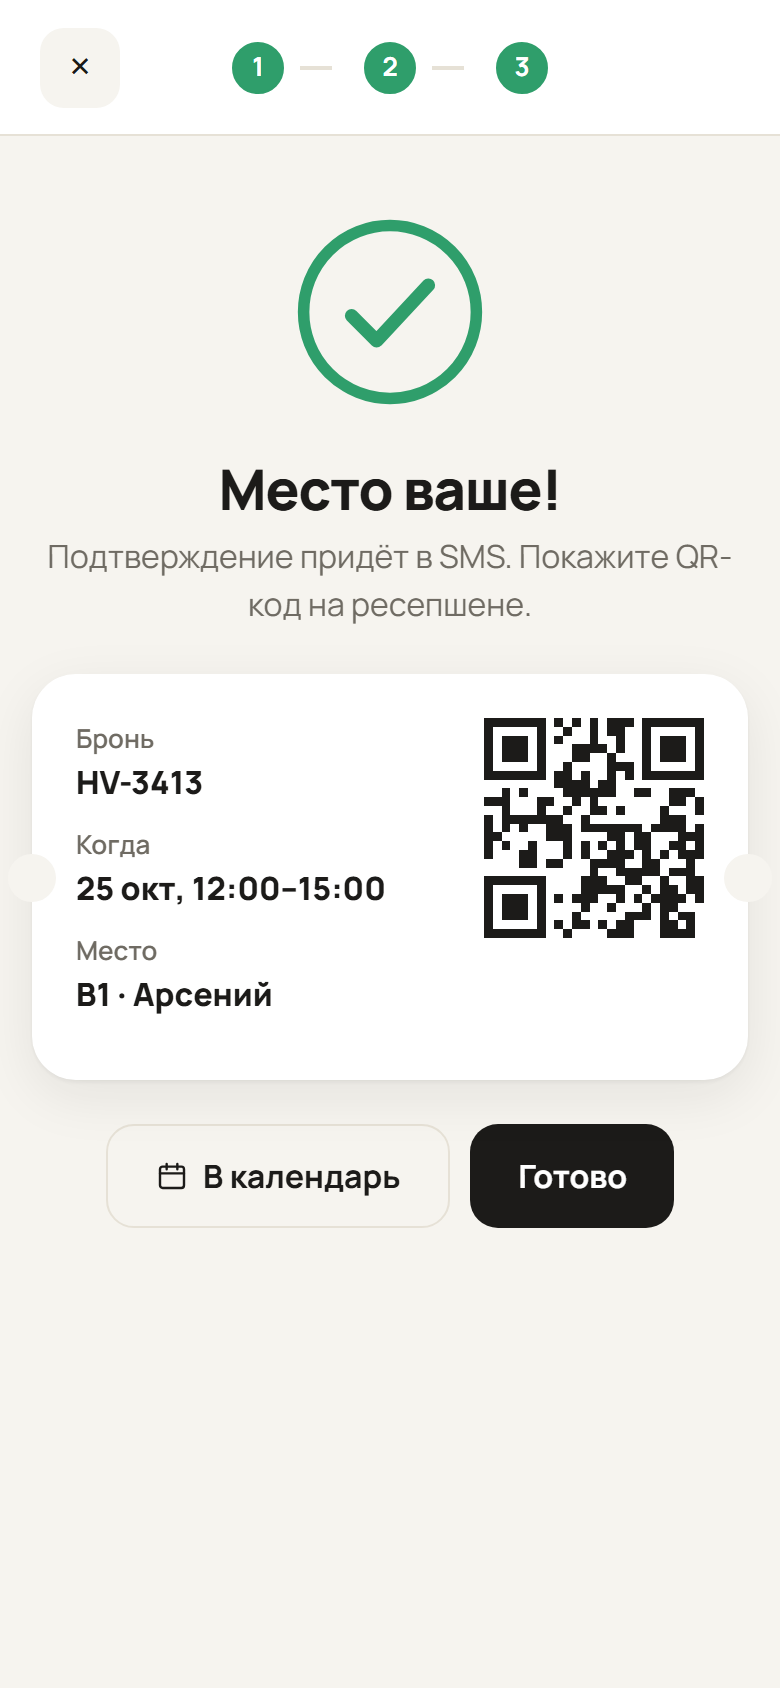
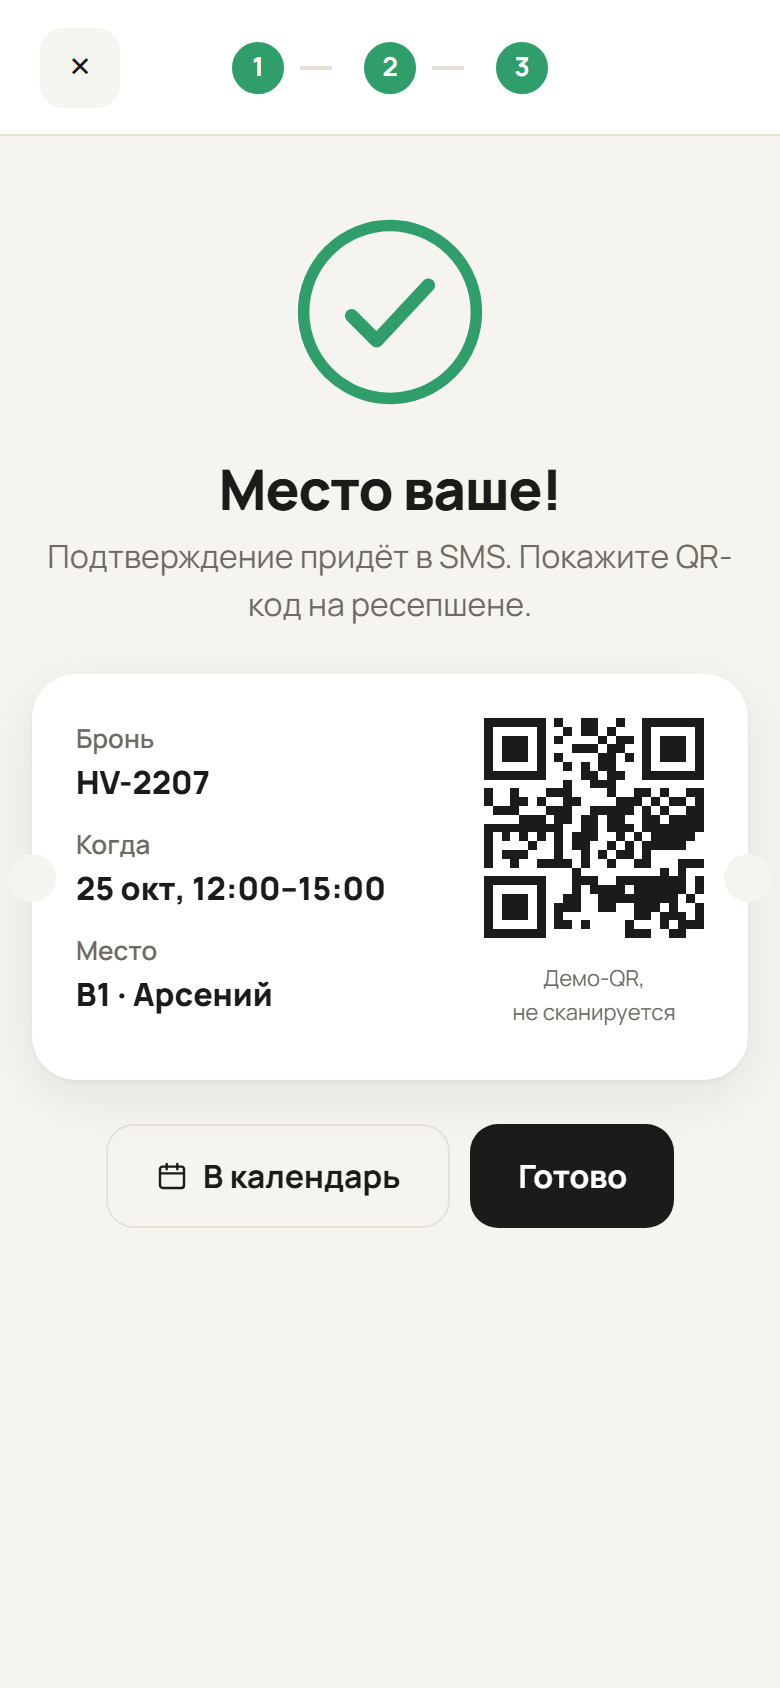
Honest demo data, real .ics download, keyboard-accessible seat map, dialog focus management

Changed region(s): [[0.6154, 0.4005, 0.9231, 0.6161], [0.1846, 0.4313, 0.2769, 0.4929]]

diff --git a/app.html b/app.html
@@ -131,7 +131,9 @@ footer{padding:40px 0 60px;color:var(--mute);font-size:14px}
 .mapbox svg{width:100%;height:auto;display:block}
 .seat{cursor:pointer;transition:transform .25s var(--spring)}
 .seat rect{transition:fill .2s,stroke .2s}
-.seat:hover{transform:scale(1.08)}
+.seat:hover,.seat:focus-visible{transform:scale(1.08)}
+.seat:focus-visible{outline:none}
+.seat:focus-visible rect{stroke:#1c1b19;stroke-width:3}
 .seat.taken{cursor:not-allowed}
 .seat.taken:hover{transform:none}
 .seat.dim{opacity:.25}
@@ -198,7 +200,7 @@ footer{padding:40px 0 60px;color:var(--mute);font-size:14px}
 <main class="wrap">
   <section class="hero">
     <div>
-      <span class="eyebrow"><i></i><span id="freeNow">Сейчас свободно 14 мест</span></span>
+      <span class="eyebrow"><i></i><span id="freeNow">Демо: 14 свободных мест сегодня</span></span>
       <h1>Работайте там, где <em>думается</em></h1>
       <p class="lead">Коворкинг в центре Гомеля: тихая зона, переговорки и кофе без ограничений. Бронь места на час, день или месяц — за 30 секунд и без звонков.</p>
       <div class="hero-cta"><button class="btn brand" data-open>Выбрать место →</button><a class="btn ghost" href="#plans">Тарифы</a></div>
@@ -237,7 +239,7 @@ footer{padding:40px 0 60px;color:var(--mute);font-size:14px}
 </main>
 
 <!-- ---------- booking ---------- -->
-<section id="booking" aria-label="Бронирование">
+<section id="booking" role="dialog" aria-modal="true" aria-label="Бронирование места" tabindex="-1">
   <div class="bk-top">
     <button class="close" id="closeBk" aria-label="Закрыть">×</button>
     <div class="steps" id="steps"><div class="step on"><i>1</i><span>Дата и время</span></div><div class="step"><i>2</i><span>Место</span></div><div class="step"><i>3</i><span>Контакты</span></div></div>
@@ -258,7 +260,7 @@ footer{padding:40px 0 60px;color:var(--mute);font-size:14px}
       </div>
       <!-- step 2 -->
       <div class="page right" id="p2">
-        <h2>Выберите место</h2><p class="hint">Наведите на место, чтобы увидеть детали. Серые уже заняты на это время.</p>
+        <h2>Выберите место</h2><p class="hint">Наведите или выберите место клавиатурой, чтобы увидеть детали. Серые заняты на это время. <b>Демо:</b> занятость смоделирована и одинакова для выбранных даты и времени.</p>
         <div class="filters" id="filters"><button class="chip" data-f="window"><svg class="ico" aria-hidden="true"><use href="#i-window"/></svg> У окна</button><button class="chip" data-f="monitor"><svg class="ico" aria-hidden="true"><use href="#i-monitor"/></svg> С монитором</button><button class="chip" data-f="quiet"><svg class="ico" aria-hidden="true"><use href="#i-quiet"/></svg> Тихая зона</button></div>
         <div class="mapbox" id="mapbox"><div id="mapSkel" class="skel" style="height:320px"></div><svg id="seatMap" viewBox="0 0 640 400" style="display:none"></svg><div class="tip" id="tip"></div></div>
         <div class="legend"><span><i style="background:var(--green-soft);border:1.5px solid var(--green)"></i>Свободно</span><span><i style="background:var(--taken)"></i>Занято</span><span><i style="background:var(--ink)"></i>Ваш выбор</span></div>
@@ -278,8 +280,8 @@ footer{padding:40px 0 60px;color:var(--mute);font-size:14px}
         <div class="done-wrap">
           <svg class="tick" viewBox="0 0 100 100"><circle cx="50" cy="50" r="45" fill="none" stroke="#2f9e6b" stroke-width="6"/><path d="M30 52l13 13 27-29" fill="none" stroke="#2f9e6b" stroke-width="7" stroke-linecap="round" stroke-linejoin="round"/></svg>
           <h2>Место ваше!</h2><p class="hint">Подтверждение придёт в SMS. Покажите QR-код на ресепшене.</p>
-          <div class="ticket"><div id="ticketInfo"></div><svg class="qr" id="qr" viewBox="0 0 25 25" shape-rendering="crispEdges"></svg></div>
-          <div style="display:flex;gap:10px;justify-content:center;flex-wrap:wrap"><button class="btn ghost" id="addCal"><svg class="ico" aria-hidden="true"><use href="#i-calendar"/></svg> В календарь</button><button class="btn" id="finish">Готово</button></div>
+          <div class="ticket"><div id="ticketInfo"></div><figure style="margin:0;text-align:center"><svg class="qr" id="qr" viewBox="0 0 25 25" shape-rendering="crispEdges" role="img" aria-label="Демо-изображение QR-кода"></svg><figcaption style="font-size:11px;color:var(--mute);margin-top:4px">Демо-QR,<br>не сканируется</figcaption></figure></div>
+          <div style="display:flex;gap:10px;justify-content:center;flex-wrap:wrap"><button class="btn ghost" id="addCal" title="Скачать .ics-файл для календаря"><svg class="ico" aria-hidden="true"><use href="#i-calendar"/></svg> В календарь</button><button class="btn" id="finish">Готово</button></div>
         </div>
       </div>
       <div class="mbar" id="mbar"><div class="t"><b id="mTotal">—</b><span id="mInfo">Выберите время</span></div><button class="btn brand" id="mNext" disabled>Далее</button></div>
@@ -314,15 +316,25 @@ function tweenNum(el, to, suffix = " BYN") {
   requestAnimationFrame(step);
 }
 addEventListener("scroll", () => $("#hdr").classList.toggle("scrolled", scrollY > 10));
-setInterval(() => { $("#freeNow").textContent = `Сейчас свободно ${12 + Math.floor(Math.random() * 5)} мест`; }, 4000);
 
 /* ---------- open / close ---------- */
+let opener = null;
 $$("[data-open]").forEach(b => b.addEventListener("click", () => {
   if (b.dataset.plan) setPlan(b.dataset.plan);
-  $("#booking").classList.add("on"); document.body.style.overflow = "hidden";
+  opener = b; $("#booking").classList.add("on"); document.body.style.overflow = "hidden";
+  setTimeout(() => { const f = $("#planSeg button.on") || $("#closeBk"); f.focus(); }, 60);
 }));
+// Keep Tab inside the open booking dialog.
+$("#booking").addEventListener("keydown", e => {
+  if (e.key !== "Tab") return;
+  const f = [...$("#booking").querySelectorAll('button:not([disabled]),input,[tabindex="0"]')].filter(el => el.offsetParent !== null && !el.closest(".page.left,.page.right"));
+  if (!f.length) return;
+  const first = f[0], last = f[f.length - 1];
+  if (e.shiftKey && document.activeElement === first) { e.preventDefault(); last.focus(); }
+  else if (!e.shiftKey && document.activeElement === last) { e.preventDefault(); first.focus(); }
+});
 $("#closeBk").addEventListener("click", closeBooking);
-function closeBooking() { $("#booking").classList.remove("on"); document.body.style.overflow = ""; }
+function closeBooking() { $("#booking").classList.remove("on"); document.body.style.overflow = ""; if (opener) opener.focus(); }
 addEventListener("keydown", e => { if (e.key === "Escape") closeBooking(); });
 
 /* ---------- step 1: plan, date, time ---------- */
@@ -395,7 +407,8 @@ function renderMap() {
     const fit = [...S.filters].every(f => f === "quiet" ? s.zone === "quiet" : s[f]);
     const cls = `seat${s.taken ? " taken" : ""}${S.seat === s.id ? " sel" : ""}${!fit ? " dim" : ""}`;
     const fill = s.taken ? "var(--taken)" : "var(--green-soft)", stroke = s.taken ? "var(--taken)" : "var(--green)";
-    h += `<g class="${cls}" data-id="${s.id}" style="transform-origin:${s.x + 22}px ${s.y + 18}px">
+    const label = `Место ${s.id}, ${s.taken ? "занято" : "свободно"}${s.window ? ", у окна" : ""}${s.monitor ? ", с монитором" : ""}${s.zone === "quiet" ? ", тихая зона" : ""}${S.seat === s.id ? ", выбрано" : ""}`;
+    h += `<g class="${cls}" data-id="${s.id}" role="button" tabindex="${s.taken ? -1 : 0}" aria-label="${label}" aria-pressed="${S.seat === s.id}"${s.taken ? ' aria-disabled="true"' : ""} style="transform-origin:${s.x + 22}px ${s.y + 18}px">
       <rect x="${s.x}" y="${s.y}" width="44" height="36" rx="9" fill="${fill}" stroke="${stroke}" stroke-width="2"/>
       ${s.monitor ? `<rect x="${s.x + 14}" y="${s.y + 4}" width="16" height="3" rx="1.5" fill="${s.taken ? "#bdb7aa" : "var(--green)"}"/>` : ""}
       <text x="${s.x + 22}" y="${s.y + 24}" text-anchor="middle" font-size="12" font-weight="800" fill="${s.taken ? "#9a9488" : "#1c1b19"}">${s.id}</text></g>`;
@@ -408,6 +421,8 @@ function renderMap() {
       S.seat = S.seat === s.id ? null : s.id; renderMap(); update();
     });
     g.addEventListener("mouseenter", () => showTip(g, s)); g.addEventListener("mouseleave", () => $("#tip").classList.remove("on"));
+    g.addEventListener("focus", () => showTip(g, s)); g.addEventListener("blur", () => $("#tip").classList.remove("on"));
+    g.addEventListener("keydown", e => { if (e.key === "Enter" || e.key === " ") { e.preventDefault(); g.dispatchEvent(new Event("click")); requestAnimationFrame(() => { const n = $(`.seat[data-id="${s.id}"]`); n && n.focus(); }); } });
   });
 }
 function showTip(g, s) {
@@ -479,7 +494,8 @@ $("#dBack").addEventListener("click", () => goStep(S.step - 1));
 
 /* ---------- step 4: confirmation ---------- */
 function confirmBooking() {
-  const code = "HV-" + (1000 + Math.floor(rnd(Date.now() % 1000) * 9000));
+  const code = "HV-" + (1000 + Math.floor(rnd(S.date.getDate() * 97 + (S.start || 0) * 13 + S.seat.charCodeAt(0) + +S.seat.slice(1)) * 9000));
+  S.code = code;
   $("#ticketInfo").innerHTML = `<div class="k">Бронь</div><div class="v">${code}</div><div class="k">Когда</div><div class="v">${S.date.getDate()} ${MONTHS[S.date.getMonth()]}, ${S.plan === "hour" ? `${S.start}:00–${S.start + S.dur}:00` : S.plan === "day" ? "весь день" : "30 дней"}</div><div class="k">Место</div><div class="v">${S.seat} · ${$("#name").value.trim()}</div>`;
   // Decorative QR-like pattern seeded from the booking code (not a scannable QR).
   let q = ""; const fin = (x, y) => `<rect x="${x}" y="${y}" width="7" height="7" fill="#1c1b19"/><rect x="${x + 1}" y="${y + 1}" width="5" height="5" fill="#fff"/><rect x="${x + 2}" y="${y + 2}" width="3" height="3" fill="#1c1b19"/>`;
@@ -487,7 +503,18 @@ function confirmBooking() {
   $("#qr").innerHTML = q + fin(0, 0) + fin(18, 0) + fin(0, 18);
 }
 $("#finish").addEventListener("click", () => { closeBooking(); setTimeout(() => location.reload(), 500); });
-$("#addCal").addEventListener("click", () => toast("Событие добавлено в календарь (демо)"));
+$("#addCal").addEventListener("click", downloadIcs);
+// Real calendar file for the chosen slot (the booking itself is a demo).
+function downloadIcs() {
+  const d = S.date, pad = n => String(n).padStart(2, "0");
+  const startH = S.plan === "hour" ? S.start : 8, endH = S.plan === "hour" ? S.start + S.dur : 22;
+  const day = `${d.getFullYear()}${pad(d.getMonth() + 1)}${pad(d.getDate())}`;
+  const ics = ["BEGIN:VCALENDAR", "VERSION:2.0", "PRODID:-//Ulei demo//RU", "BEGIN:VEVENT",
+    `UID:${S.code}@ulei-demo`, `DTSTAMP:${day}T000000`, `DTSTART:${day}T${pad(startH)}0000`, `DTEND:${day}T${pad(endH)}0000`,
+    `SUMMARY:Улей — место ${S.seat} (демо-бронь ${S.code})`, "LOCATION:ул. Советская\\, 21 (демо-адрес)", "END:VEVENT", "END:VCALENDAR"].join("\r\n");
+  const a = Object.assign(document.createElement("a"), { href: URL.createObjectURL(new Blob([ics], { type: "text/calendar" })), download: `ulei-${S.code}.ics` });
+  document.body.appendChild(a); a.click(); a.remove(); toast("Файл .ics скачан — откройте его, чтобы добавить в календарь");
+}
 addEventListener("resize", placeThumb);
 setPlan("hour");
 
